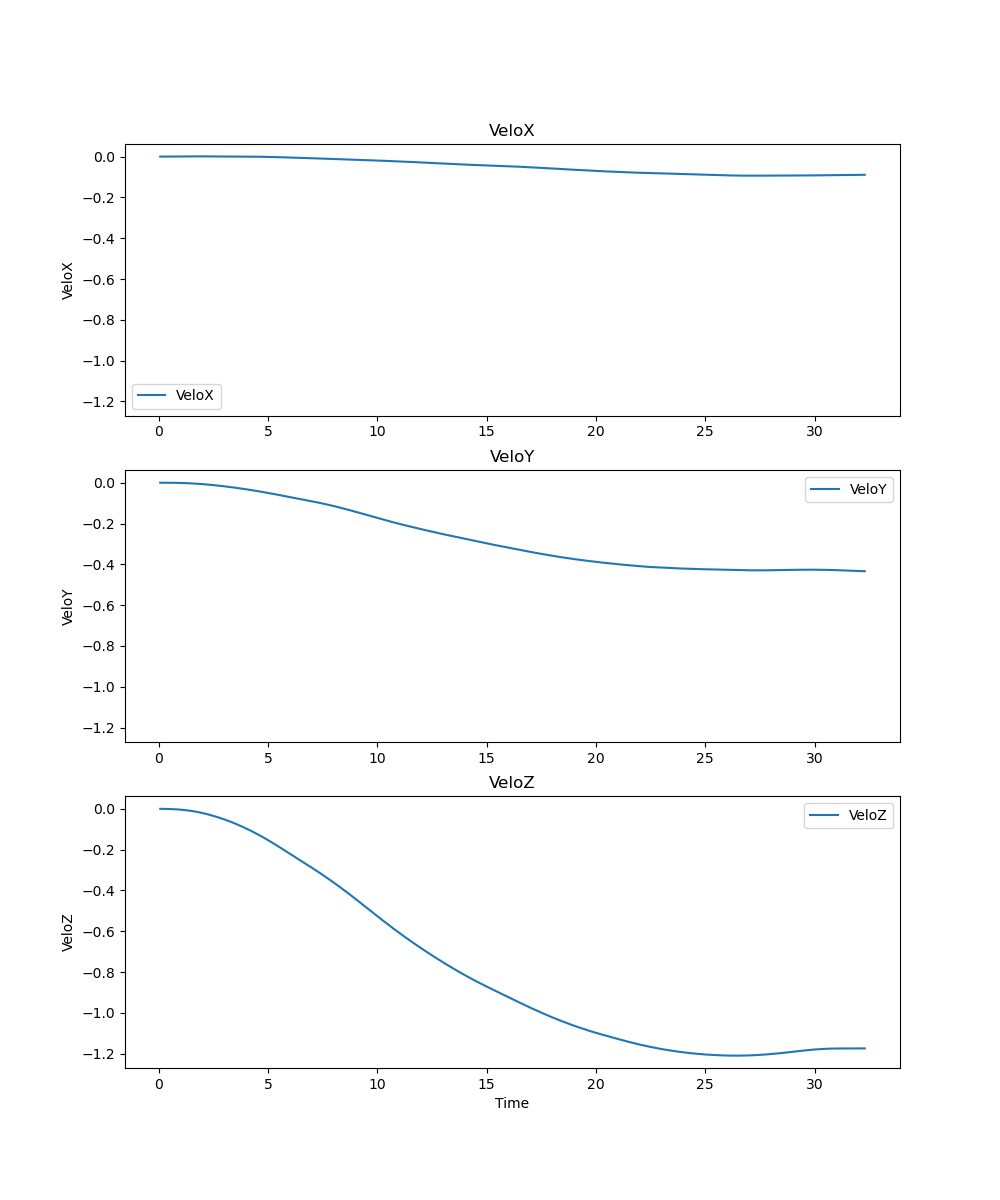
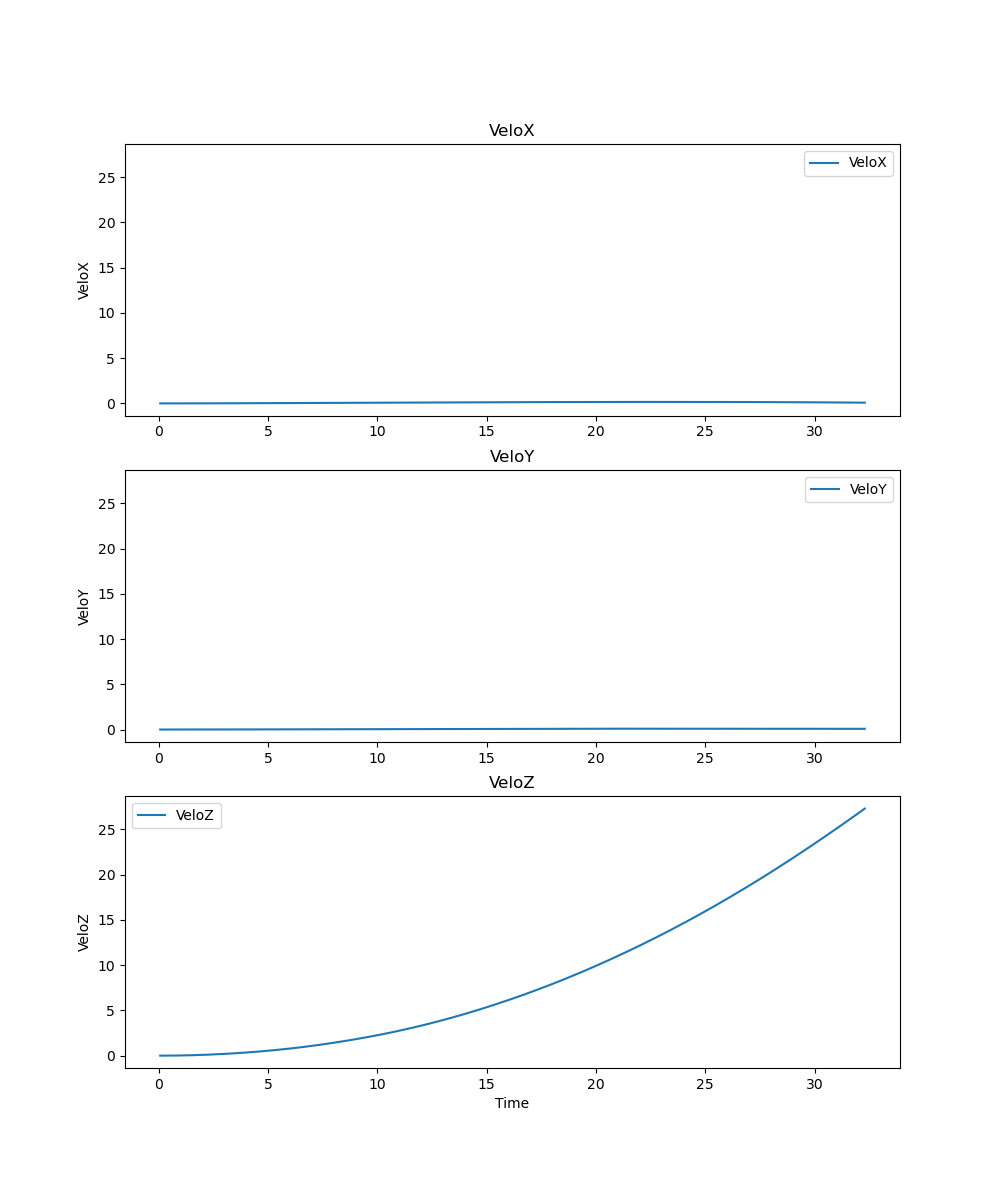
rotation included

diff --git a/main.py b/main.py
@@ -1,3 +1,4 @@
+import bisect
 import matplotlib.pyplot as plt
 import numpy as np
 from scipy.spatial.transform import Rotation
@@ -19,7 +20,7 @@ def read_log_file(filename):
             field_type = fields[0]
 
             if field_type == "POSI":
-                posi.append([float(fields[1]), float(fields[2]), float(fields[3]), float(fields[4])])
+                posi.append([float(fields[1]), float(fields[3]), float(fields[4])])
             elif field_type == "ACCE":
                 acce.append([float(fields[1]), float(fields[3]), float(fields[4]), float(fields[5])])
             elif field_type == "GYRO":
@@ -68,8 +69,8 @@ def plot_data2D(data, filename, limits):
     plt.plot(x, y)
     plt.xlabel('X')
     plt.ylabel('Y')
-    plt.xlim(limits[0], limits[1])
-    plt.ylim(limits[0], limits[1])
+    plt.xlim(limits[0][0], limits[0][1])
+    plt.ylim(limits[1][0], limits[1][1])
     plt.savefig(filename)
     plt.close()
 
@@ -118,6 +119,53 @@ def do_remove_gravity_by_mean(data):
     return data_nog
 
 
+def look_time_most_similar(time_list, time):
+    index = bisect.bisect_left(time_list, time)
+    if index > 0 and (index == len(time_list) or abs(time - time_list[index - 1]) < abs(time_list[index] - time)):
+        return index - 1
+    return index
+
+
+def do_remove_gravity_by_rotation(acce, ahrs):
+    time_acce = [entry[0] for entry in acce]
+    acce_x = [entry[1] for entry in acce]
+    acce_y = [entry[2] for entry in acce]
+    acce_z = [entry[3] for entry in acce]
+
+    time_ahrs = [entry[0] for entry in ahrs]
+    pitch_x = [entry[1] for entry in ahrs]
+    roll_y = [entry[2] for entry in ahrs]
+    yaw_z = [entry[3] for entry in ahrs]
+
+    acce_nog = []
+    for i in range(len(time_acce)):
+        idx = look_time_most_similar(time_ahrs, time_acce[i])
+        alpha = to_rad(yaw_z[idx])  # YawZ
+        beta = to_rad(roll_y[idx])  # RollY
+        gamma = to_rad(pitch_x[idx])  # PitchX
+
+        acce_ith = np.array([acce_x[i], acce_y[i], acce_z[i]])
+
+        ca = np.cos(alpha)
+        sa = np.sin(alpha)
+        cb = np.cos(beta)
+        sb = np.sin(beta)
+        cg = np.cos(gamma)
+        sg = np.sin(gamma)
+
+        Ralhpa = np.array([[ca, -sa, 0], [sa, ca, 0], [0, 0, 1]])
+        Rbeta = np.array([[cb, 0, sb], [0, 1, 0], [-sb, 0, cb]])
+        Rgamma = np.array([[1, 0, 0], [0, cg, -sg], [0, sg, cg]])
+
+        Rtemp = np.dot(Ralhpa, Rbeta)
+        R = np.dot(Rtemp, Rgamma)
+
+        new_acce = np.dot(R, acce_ith) - np.array([0, 0, 9.8])
+        acce_nog.append([time_acce[i], new_acce[0], new_acce[1], new_acce[2]])
+
+    return acce_nog
+
+
 def to_rad(deg):
     return deg * np.pi / 180.0
 
@@ -148,7 +196,8 @@ if __name__ == '__main__':
         velo_row = do_integration(acce)                           # estimate velocity by integration
         posi_row = do_integration(velo_row)                       # estimate position by integration
 
-        acce_nog = do_remove_gravity_by_mean(acce)              # remove gravity by mean
+        # acce_nog = do_remove_gravity_by_mean(acce)                # remove gravity by mean
+        acce_nog = do_remove_gravity_by_rotation(acce, ahrs)      # remove gravity by mean
 
         velo_nog = do_integration(acce_nog)                       # estimate velocity by integration
         posi_nog = do_integration(velo_nog)                       # estimate position by integration
@@ -162,9 +211,18 @@ if __name__ == '__main__':
         plot_data3D(velo_nog, "test_" + test + "_velo_nog.png", ['VeloX', 'VeloY', 'VeloZ'])
         plot_data3D(posi_nog, "test_" + test + "_posi_nog.png", ['VeloX', 'VeloY', 'VeloZ'])
 
-        plot_data2D(posi_org, "test_" + test + "_posi2D_org.png", [-10, 10])
-        plot_data2D(posi_row, "test_" + test + "_posi2D_row.png", [-100, 100])
-        plot_data2D(posi_nog, "test_" + test + "_posi2D_nog.png", [-100, 100])
+        if test == 'tr':
+            limits_org = [[43.7182, 43.7186], [10.4215, 10.4223]]
+            limits_raw = [[-10000, 10000], [-10000, 10000]]
+            limits_nog = [[-10000, 10000], [-1000, 10000]]
+        else:
+            limits_org = [[0, 10], [0, 10]]
+            limits_raw = [[-1000, 1000], [-1000, 1000]]
+            limits_nog = [[-100, 100], [-100, 100]]
+
+        plot_data2D(posi_org, "test_" + test + "_posi2D_org.png", limits_org)
+        plot_data2D(posi_row, "test_" + test + "_posi2D_row.png", limits_raw)
+        plot_data2D(posi_nog, "test_" + test + "_posi2D_nog.png", limits_nog)
 
 
 
